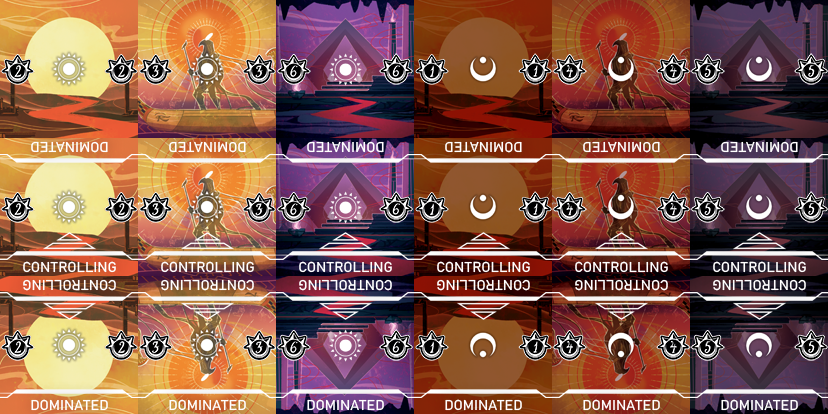
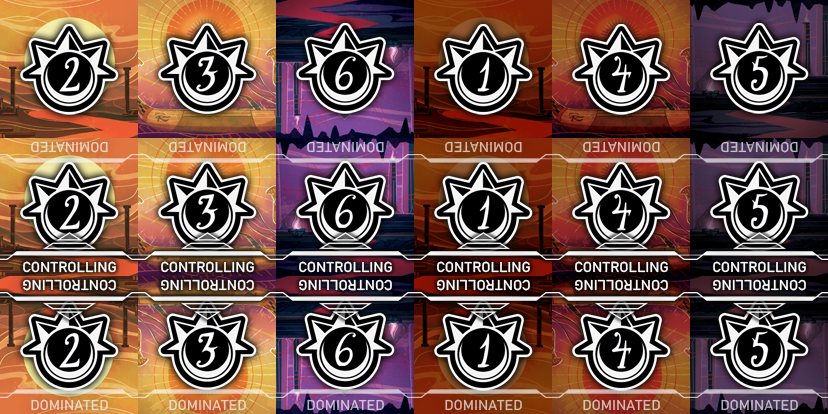
Update center img, fix  card name in logs, fix score confirm

diff --git a/src/logic/state.ts b/src/logic/state.ts
@@ -2,7 +2,6 @@ import type { Ref } from 'vue';
 import { GridData, CellOverlay } from '../type/grid.d';
 import { HandData } from '../type/hand.d';
 import { ScoreData } from '../type/score.d';
-import { CtrlButtonData } from '../type/ctrl-button.d';
 import { ReincarnationData } from '../type/reincarnation.d';
 import { CtrlBarData } from '../type/ctrl-bar.d';
 import { watch } from 'vue';
@@ -73,13 +72,12 @@ class State {
     private gridData: Ref<GridData>,
     private handData: Ref<HandData>,
     private scoreData: Ref<ScoreData>,
-    private ctrlButtonData: Ref<CtrlButtonData>,
     private reincarnationData: Ref<ReincarnationData>,
     private ctrlBarData: Ref<CtrlBarData>
   ) {
     this.throttledRefresh = throttle(this.refresh, 100, this);
     watch(
-      [this.gridData, this.handData, this.ctrlButtonData, this.scoreData],
+      [this.gridData, this.handData, this.scoreData],
       () => {
         // FIXME: there are too many of refresh calls
         this.throttledRefresh();
@@ -426,12 +424,11 @@ class State {
       }
 
       case 'endRound:afterAnim': {
-        // this.ctrlButtonData.value.confirm.display = true;
+        this.assign(this.ctrlBarData, 'type', 'submitScoreConfirm');
         break;
       }
 
       case 'endRound:submit': {
-        // this.ctrlButtonData.value.confirm.display = false;
         this.request('endRoundConfirm', {});
         this.setSubState('afterSubmit');
         break;

diff --git a/src/App.vue b/src/App.vue
@@ -6,7 +6,6 @@ import { Gamedata } from './type/gamedata.d';
 import { BgaRequest, BgaNotification } from './type/bga-interface.d';
 import { GridData } from './type/grid.d';
 import { HandData } from './type/hand.d';
-import { CtrlButtonData } from './type/ctrl-button.d';
 import { ScoreData } from './type/score.d';
 import { ReincarnationData } from './type/reincarnation.d';
 import { RoundData } from './type/round.d';
@@ -54,29 +53,6 @@ const handData: Ref<HandData> = ref({
   selectable: [],
   selected: [],
   active: false,
-});
-
-const ctrlButtonData: Ref<CtrlButtonData> = ref({
-  submit: {
-    active: true,
-    display: false,
-  },
-  cancel: {
-    active: true,
-    display: false,
-  },
-  mulligan: {
-    active: true,
-    display: false,
-  },
-  noMulligan: {
-    active: true,
-    display: false,
-  },
-  confirm: {
-    active: true,
-    display: false,
-  },
 });
 
 const scoreData: Ref<ScoreData> = ref({
@@ -178,7 +154,6 @@ const state: State = new State(
   gridData,
   handData,
   scoreData,
-  ctrlButtonData,
   reincarnationData,
   ctrlBarData
 );

diff --git a/src/def/ctrlBar.ts b/src/def/ctrlBar.ts
@@ -49,6 +49,10 @@ const ctrlBarDefs: { [barType in BarType]: CtrlBarDef } = {
     message: "Press 'Submit' to confirm.",
     buttonTypes: ['submit', 'cancel'],
   },
+  submitScoreConfirm: {
+    message: "Press 'Confirm' to continue.",
+    buttonTypes: ['confirm'],
+  },
 };
 
 const defaultCtrlBarData: CtrlBarData = {

diff --git a/src/type/ctrl-bar.d.ts b/src/type/ctrl-bar.d.ts
@@ -12,7 +12,8 @@ type BarType =
   | 'chooseTargetRa'
   | 'chooseTargetHeka1'
   | 'chooseTargetHeka2'
-  | 'submitActionConfirm';
+  | 'submitActionConfirm'
+  | 'submitScoreConfirm';
 
 interface CtrlBarDef {
   message: string;

diff --git a/bga_src/backend/sunrisesunset.game.php b/bga_src/backend/sunrisesunset.game.php
@@ -518,7 +518,7 @@ class SunriseSunset extends Table
         $playerName = $this->getPlayerName($lPlayerID);
         self::notifyAllPlayers(
           'score',
-          clienttranslate('"the Evil" dealt 1 damage to ${playerName}.'),
+          clienttranslate('"Apofis" dealt 1 damage to ${playerName}.'),
           [
             'playerName' => $playerName,
           ]
@@ -534,7 +534,7 @@ class SunriseSunset extends Table
         $playerName = $this->getPlayerName($lPlayerID);
         self::notifyAllPlayers(
           'score',
-          clienttranslate('"the Agent" dealt 1 damage to ${playerName}.'),
+          clienttranslate('"Bastet" dealt 1 damage to ${playerName}.'),
           [
             'playerName' => $playerName,
           ]
@@ -860,7 +860,7 @@ class SunriseSunset extends Table
     $targetCardInfo['location_arg'] = $gridID;
 
     // move notification
-    $msg = clienttranslate('"the Maze" moved a stealth card.');
+    $msg = clienttranslate('"Heka" moved a stealth card.');
     self::notifyAllPlayers('moveCard', $msg, [
       'player_id' => $targetPlayerID,
       'player_name' => $this->getPlayerName($targetPlayerID),
@@ -1072,7 +1072,7 @@ class SunriseSunset extends Table
         self::notifyPlayer(
           $playerID,
           'logError',
-          clienttranslate('"the Creeps" cannot be discarded.'),
+          clienttranslate('"Anubis/Seth" cannot be discarded.'),
           []
         );
       }
@@ -1521,7 +1521,7 @@ class SunriseSunset extends Table
     $sql = 'SELECT round_side FROM round';
     $round_side = self::getUniqueValueFromDB($sql);
     if ($round_side == 'night') {
-      $result['score']['center'] = [5, 4, 1];
+      $result['score']['center'] = [1, 4, 5];
     }
 
     // get the controller (player) for each center
